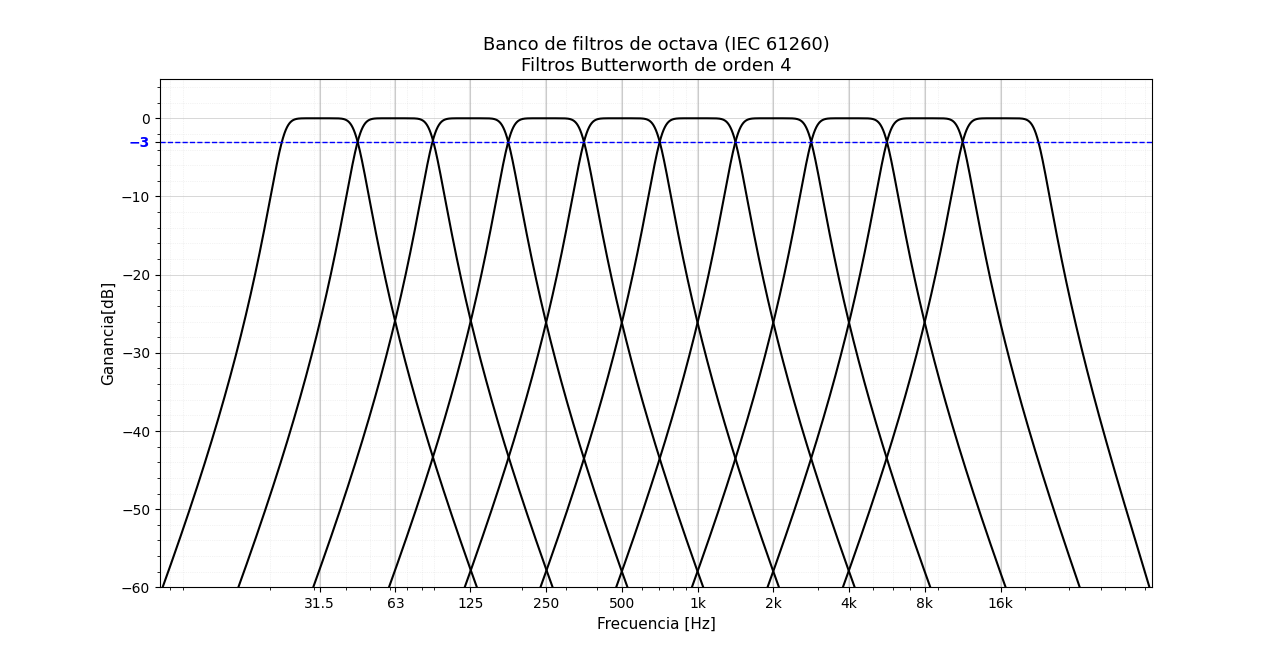
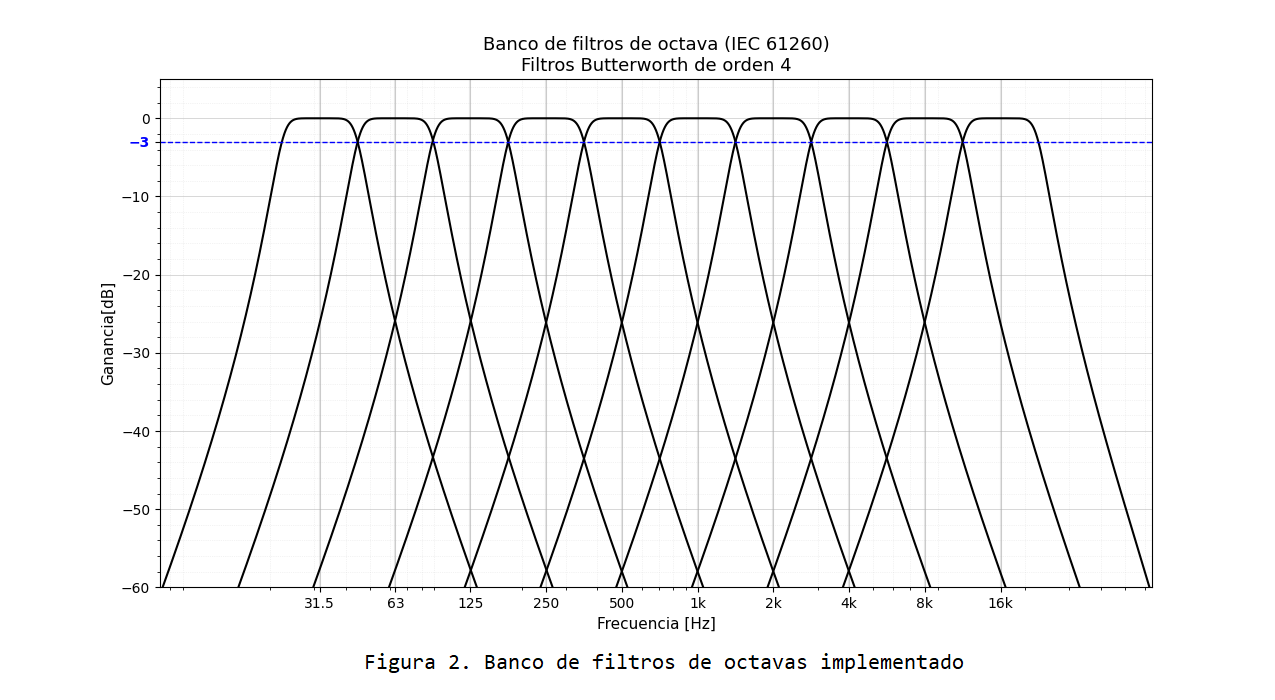
docs: Actualización del informe

diff --git a/RIR_API/docs_3/informe.md b/RIR_API/docs_3/informe.md
@@ -228,21 +228,54 @@ Luego se realizó la  comparación de los resultados obtenidos, y se obtuvo la p
 ### 6.3 Resultados
 1) Respuesta al impulso sintetizada.
 
-    En las figuras   , se muestran los resultados derivados del procesamiento de la señal sintetizada en cada uno de los programas mencionados.
+    En la figura 5, se muestran los resultados derivados del procesamiento de la señal sintetizada en cada uno de los programas mencionados.
+    ![Imagen 1 Diagrama de arquitectura](IMAGENES/RI_SINTETICA_GRAFICOS.jpg)
+
+    En la tabla 1, se disponen los resultados obtenidos con sus respectivos valores de precisión.
+
+    ![Imagen 1 Diagrama de arquitectura](IMAGENES/RI_SINTETICA_TABLAS.jpg)
 
 2) Respuesta al impulso del recinto Maes Hawe.
 
-    En las figuras   , se muestran los resultados derivados del procesamiento de la respuesta impulsiva en cada uno de los programas mencionados.
+    En la figura 6 se muestran los resultados derivados del procesamiento de la respuesta impulsiva en cada uno de los programas mencionados.
 
     Debido a las características de la respuesta impulsiva
     los valores de EDT no han podido determinarse de manera consistente. Por este motivo, para dicho parámetro, se muestran las señales de ambos canales procesados en el software REW.
 
-    ![Imagen 1 Diagrama de arquitectura](IMAGENES/RIHM.jpg)
+    ![Imagen 1 Diagrama de arquitectura](IMAGENES/RI_HM.jpg)
 
+    En la tabla 2, se disponen los resultados obtenidos con sus respectivos valores de precisión.
+
+    ![Imagen 1 Diagrama de arquitectura](IMAGENES/RI_HM_TABLAS.jpg)
+    
 ### 6.4 Análisis
+1)  RI sintetizada
+    Para el caso del software REW, el máximo error absoluto, tanto para el EDT, T10, T20 como T30 es inferior a 50 ms. En tanto que para C80 ha sido inferior a 0,207 dB, y para D50 menor al 3,68 %.
+
+    Tomando como referencia la RIR API de la cátedra el máximo error absoluto, tanto para el EDT, T10, T20 como T30 es inferior a 116 ms, valor obtenido en la frecuencia central de 250 Hz en el parámetro EDT. 
+2)  RI Maes Howe
+    Los valores de EDT han resultado con error absoluto máximo elevado con respecto a los obtenidos en tanto en el software REW como en la RIR API de la cátedra. También se observan diferencias significativas entre los valores otorgados por el software REW y la RIR API de la cátedra. En la figura 7, se observa la respuesta al impulso suavizada extraida del software REW, tanto para la RI sin filtrar y filtrada en la banda de octava con frecuencia central en fo = 4.00 KHz.
+
+    ![Imagen 1 Diagrama de arquitectura](IMAGENES/RI_REW_MH.jpg)
+    
+    La variación de amplitud dada en los primeros 20 dB de decaimiento explican la dispersión de los valores obtenidos tanto en el EDT como en el T10.  La dispersión es menor para el resto de los parámetros.
+
+    Por otra parte, los valores de D50 y C80 no se aprecian notablemente afectados, siendo la precisión superior al 94 % para ambos parámetros teniendo en cuenta las frecuencias centrales de octava bajo análisis.
 
 ## 7. Conclusiones
-Se ha desarrollado el software RIR-API en lenguaje python capaz de generar la señal de excitación, registrar la respuesta del recinto, procesarla y otorgar los parámetros acústicos EDT, T20, T30, D50 y C80 por bandas de octava cumpliendo con las recomendaciones dadas en las normas ISO 3381-1 e IEC 60621-1.
+
+1)  Particulares
+
+    Para el caso de la respuesta al impulso sintetizada, la cual representa un decaimiento exponencial de la energía, situación dada en un campo sonoro difuso, la validación ha sido satisfactoria.
+
+    Con respecto a la respuesta al impulso analizada en el ítem 6.4.2, se observa que el apartamiento notorio con respecto a la respuesta impulsiva correspondiente a un campo sonoro difuso puede producir errores significativos en los valores de los parámetros analizados, en este caso a los vinculados a los primeros 15 dB de decaimiento.
+
+    
+2)  Generales
+
+    Se ha desarrollado el software RIR-API en lenguaje python capaz de generar la señal de excitación, registrar la respuesta del recinto, procesarla y otorgar los parámetros acústicos EDT, T20, T30, D50 y C80 por bandas de octava cumpliendo con las recomendaciones dadas en las normas ISO 3381-1 e IEC 60621-1. 
+    
+    Es parte de un trabajo futuro, diseñar respuestas al impulso sintéticas que representen la respuesta al impulso de campos sonoros no ideales, con el objetivo de investigar y corregir las causas que producen las desviaciones en los resultados bajo casos de respuestas al impulso asociadas con campos sonoros con características apartadas de situaciones ideales.
 
 ## 8. Adversidades, confesiones y desafíos
 
